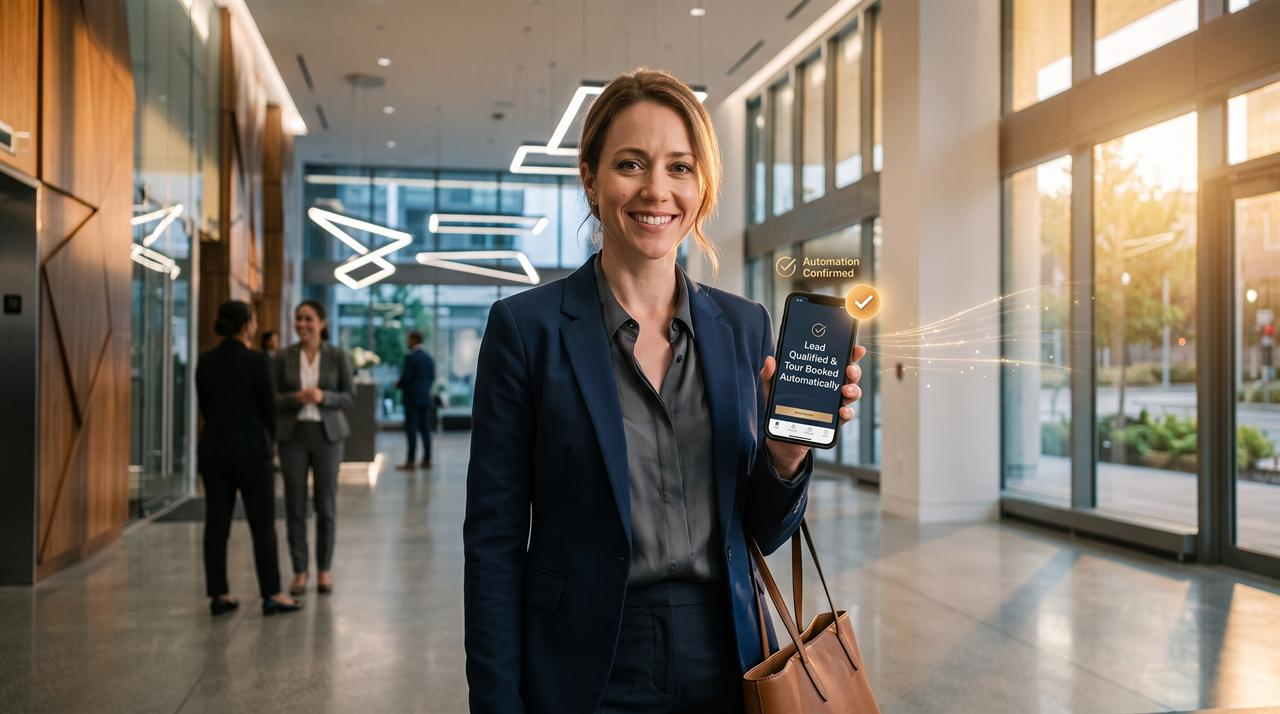
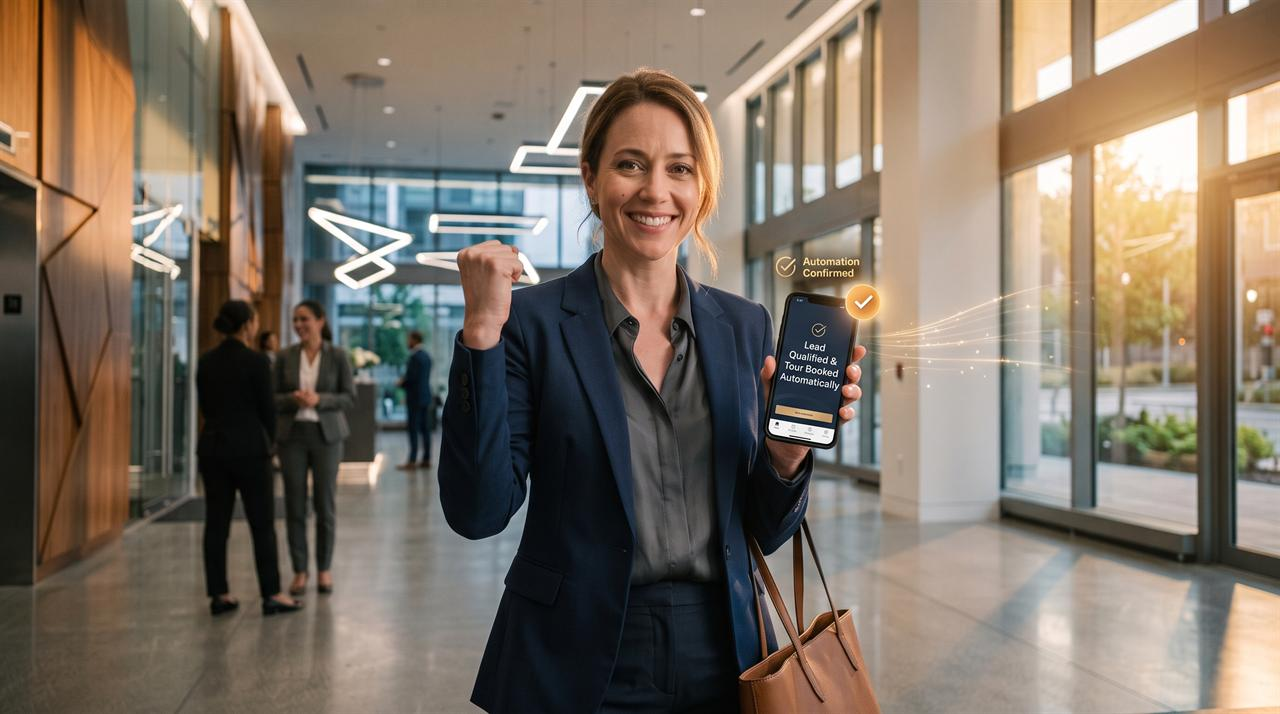
feat(assets): update Card 2 solution image with expressive victory gesture and bust cache

diff --git a/index.html b/index.html
@@ -149,8 +149,8 @@
                                 <span class="radar-dot"></span>
                                 <span class="radar-txt" data-en="Problem" data-pt="Problema" data-en-active="Solved" data-pt-active="Resolvido">Problem</span>
                             </div>
-                            <img class="img-before" src="assets/gap2_problem.jpg?v=3" alt="Professional broker stressed by unanswered lead alerts in corporate lobby">
-                            <img class="img-after" src="assets/gap2_solution.jpg?v=3" alt="Professional broker relaxed with automated lead capture confirmation">
+                            <img class="img-before" src="assets/gap2_problem.jpg?v=4" alt="Professional broker stressed by unanswered lead alerts in corporate lobby">
+                            <img class="img-after" src="assets/gap2_solution.jpg?v=4" alt="Professional broker celebrating success with automated lead bookings">
                         </div>
                         <div class="impact-content">
                             <div class="impact-badge-wrap">
